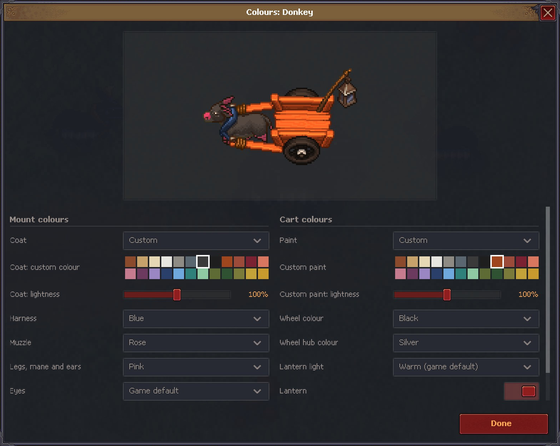
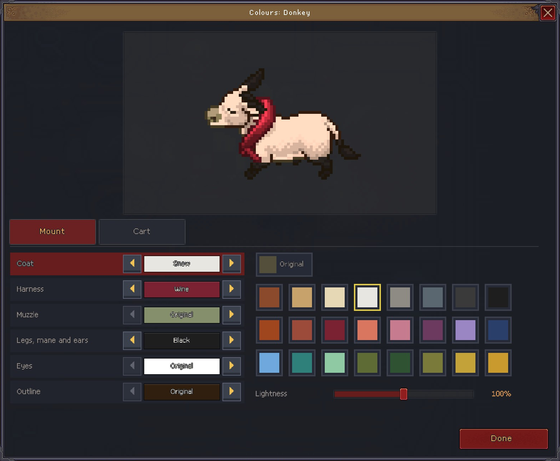
image

diff --git a/media/README.md b/media/README.md
@@ -40,7 +40,7 @@ takes the blend from the frames just before the start, so nothing after the end 
 | `options-window.png` | the options window on its Mount tab (0.16.0): the five tabs, Leave your mounts in the world on with Send your other mounts home under it, the Mount Behaviour and Sound headings | Steam screenshot 2026-11-06 00:35, box 392,132-2168,1308 (the window's frame, probed pixel by pixel; 0.14.0's window, a different size, was 372,112-2190,1326), 560 wide (`tools/crop-shot.py` in GK2QOLMods) |
 | `settings-button.png` | the game's Settings window with the GK2 Saddle Up options button above OK (0.14.0) | Steam screenshot 2026-10-31 11:25, box 880,306-1680,1129 (the window with a 24 px margin), 560 wide (`tools/crop-shot.py` in GK2QOLMods) |
 | `journal-donkey.png` | the Mount Journal on the Donkey (Default skin, its cart, the Name, Skin and Babies rows); with `colours-donkey.png` in the old colours editor's place (`Donkey-Cart-Colors-Editor.png`, outdated 2026-10-31) | Steam screenshot 2026-10-31 14:54, box 236,134-2328,1306 (the window's frame, the packs' box), 560 wide (`tools/crop-shot.py` in GK2QOLMods) |
-| `colours-donkey.png` | the Colours window on the Donkey (0.16.0, every row named by its part): a custom Charcoal coat, a Blue harness, the Muzzle Rose, Legs, mane and ears Pink, Eyes on Game default; custom Rust paint, Black wheels, Silver hubs | Steam screenshot 2026-11-06 00:36, box 492,92-2068,1348 (the window's own outline, the packs' box, unchanged), 560 wide (`tools/crop-shot.py` in GK2QOLMods) |
+| `colours-donkey.png` | the Colours window on the Donkey (0.17.1, the tabbed window with its palette): the Mount tab, a custom Snow coat chosen on the palette, a Wine harness, Legs, mane and ears Black, Muzzle, Eyes and Outline Original; the Lightness slider at 100% | Steam screenshot 2026-11-13 18:03, box 492,72-2068,1368 (the window's own outline, as the packs' colours pictures since the tabs), 560 wide (`tools/crop-shot.py` in GK2QOLMods); the 0.16.0 picture of 2026-11-06 (box 492,92-2068,1348) was the window before the tabs |
 | `leave-mounts.png` | Leave your mounts in the world (0.16.0): the yard with the Armored donkey, Larry and the dragon standing with their babies, and the Critters pack's snail and worm (unreleased; the user: "i want to show the unreleased there"; the page says they come later), the keeper on foot among them | Steam screenshot 2026-11-06 00:28, box 520,150-2300,1150 (clear of the HUD; the two rats in the bottom-left corner left out, as they sit by the HUD), 560 wide (`tools/crop-shot.py` in GK2QOLMods) |
 | `trailer.mp4` | the 30-60 s trailer | the edit script (not built) |
 
